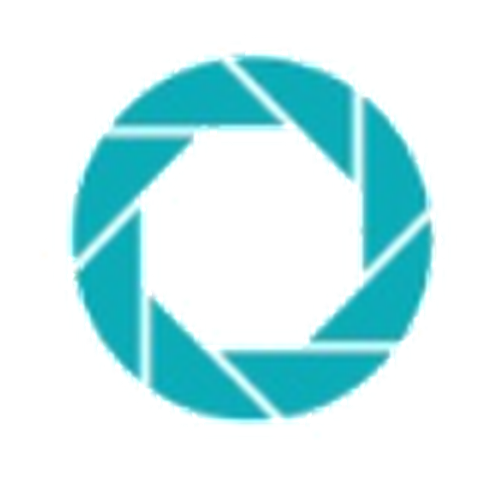
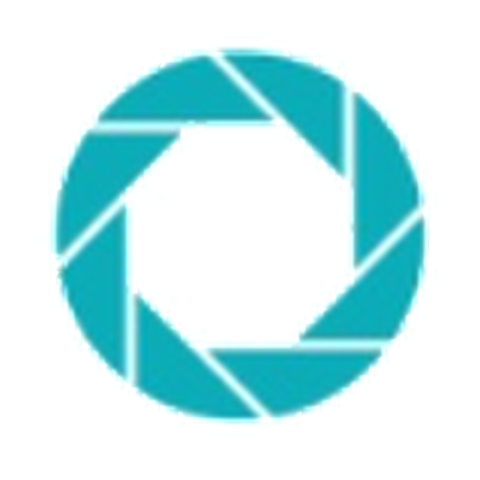
Fix shutter seal: preserve blade lines when tinting, not just silhouette
Root cause of the shape complaint: the shutter icon's blade separator
lines are opaque lighter pixels (colour detail), not transparency, so
the previous source-in recolour (alpha-mask + flat fill) discarded
them entirely and left a plain ring. Switched to a 'color' blend-mode
tint (keeps the source's light/dark pattern, only replaces hue/
saturation) plus a destination-in re-clip to the original silhouette,
confirmed side-by-side against the untinted original: blade lines
now visible, same shape, just purple.

Also re-cropped brand/shutter-icon.png with a colour-isolated bbox
(teal-only, not alpha-only) so it can't pick up any of the adjacent
letter's black pixels, then pad-to-square instead of stretch-to-
square so there's zero aspect distortion (previous crop had drifted
2-4%). Name colour reverted to purple per latest instruction.

Bump cache-bust to ?v=26.

Changed region(s): [[0.0938, 0.0938, 0.9062, 0.9062]]

diff --git a/app.js b/app.js
@@ -1447,9 +1447,18 @@
     off.height = size;
     var octx = off.getContext('2d');
     octx.drawImage(img, 0, 0, size, size);
-    octx.globalCompositeOperation = 'source-in';
+    // 'source-in' alone flattens the icon to a silhouette: the blade
+    // separator lines in this asset are opaque lighter pixels, not
+    // transparency, so a flat alpha-mask recolor erases them and leaves a
+    // plain ring. 'color' blend mode keeps the source's light/dark
+    // pattern (so the blade lines stay visible) and only replaces hue and
+    // saturation; re-clipping with 'destination-in' undoes any alpha the
+    // blend step added outside the icon's original silhouette.
+    octx.globalCompositeOperation = 'color';
     octx.fillStyle = color;
     octx.fillRect(0, 0, size, size);
+    octx.globalCompositeOperation = 'destination-in';
+    octx.drawImage(img, 0, 0, size, size);
     return off;
   }
 
@@ -1581,7 +1590,7 @@
       nameSize -= 2;
       ctx.font = '700 ' + nameSize + 'px Poppins, sans-serif';
     }
-    ctx.fillStyle = '#00BCD4';
+    ctx.fillStyle = '#7B5EA7';
     ctx.fillText(nameText, midX, 610);
 
     ctx.font = '400 25px Poppins, sans-serif';

diff --git a/index.html b/index.html
@@ -14,7 +14,7 @@
        site has no build step to fingerprint filenames, and browsers were
        caching stale CSS/JS across deploys (confirmed live: a visitor's
        browser mixed new HTML with cached old CSS and rendered broken). -->
-  <link rel="stylesheet" href="styles.css?v=25" />
+  <link rel="stylesheet" href="styles.css?v=26" />
 </head>
 <body>
   <!-- Gate -->
@@ -128,6 +128,6 @@
     </div>
   </div>
 
-  <script src="app.js?v=25"></script>
+  <script src="app.js?v=26"></script>
 </body>
 </html>
